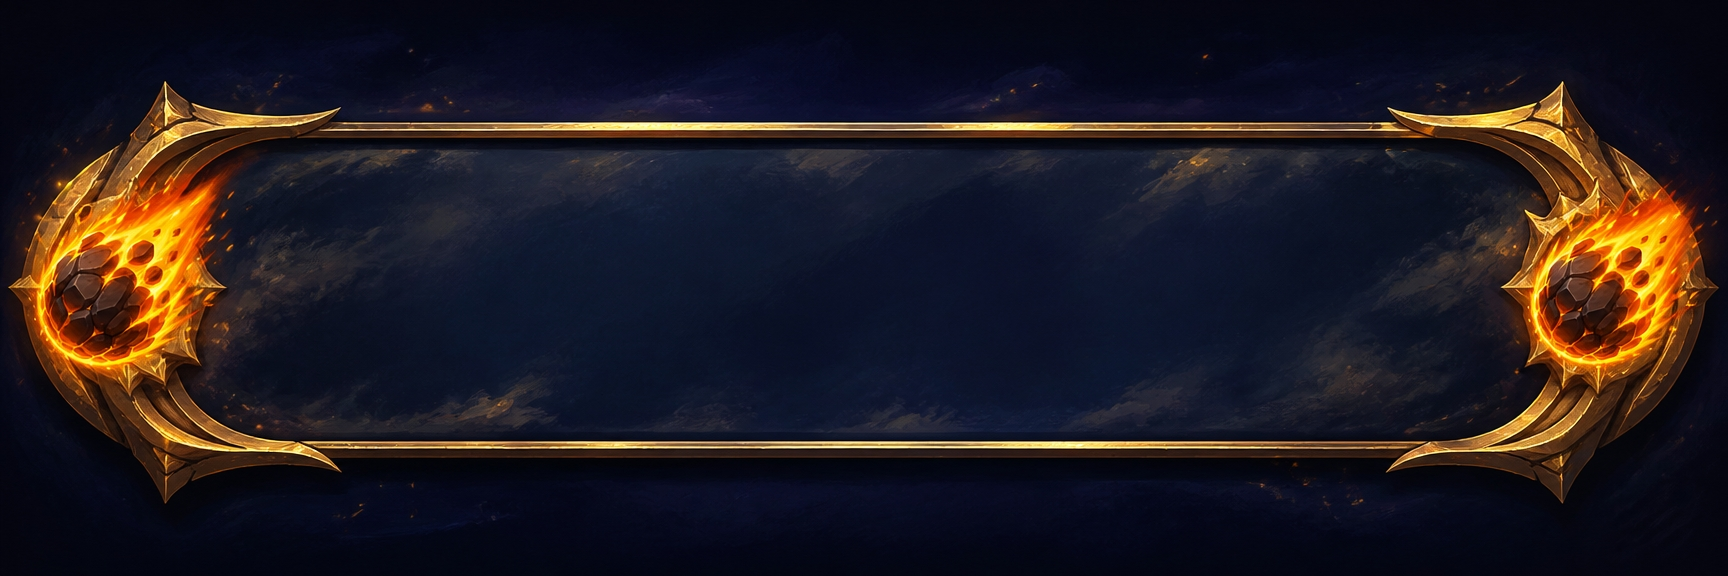
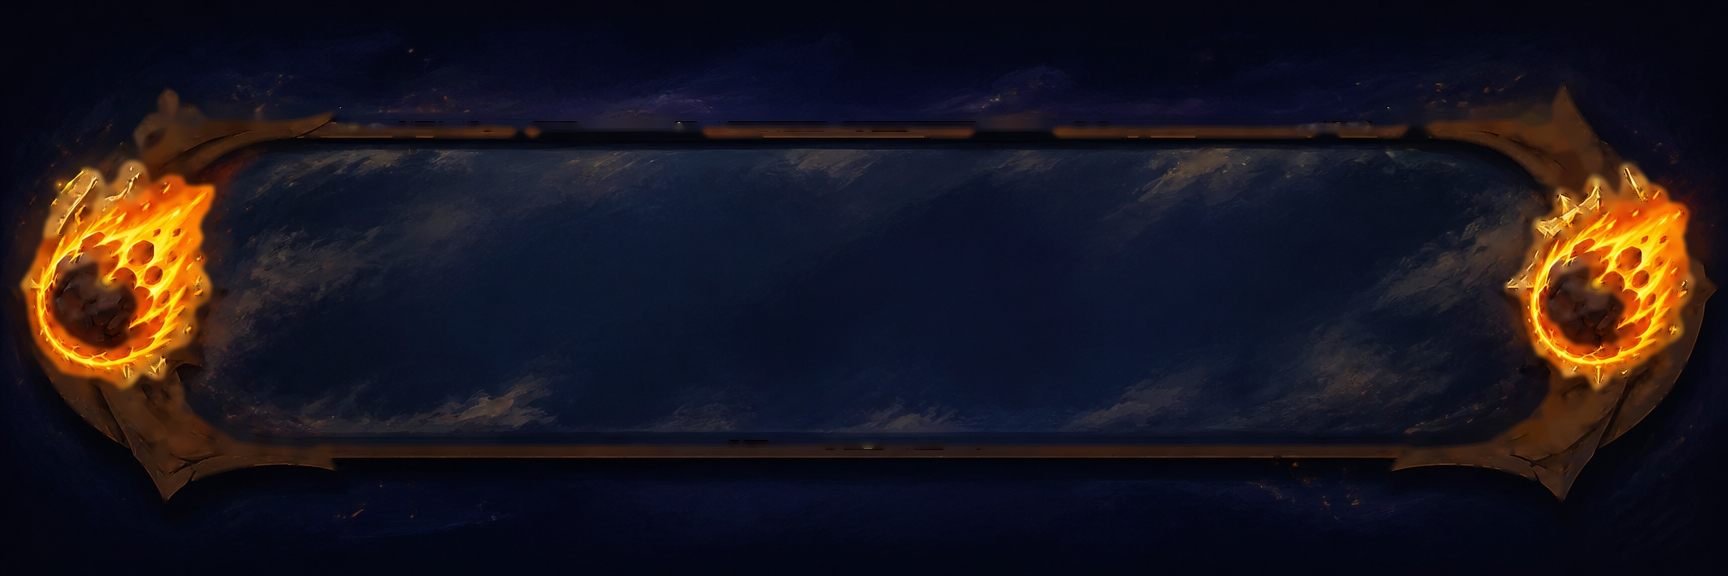
v370: 메뉴 버튼 텍스처 유성우·불티 파티클 제거(cv2 정밀 인페인트, 프레임 보호영역 변경 0px 실측)+전 버튼 hover/pressed 전환효과 표준(ui-v370), 칩·sw v370

Changed region(s): [[0.0, 0.1562, 1.0, 0.8438]]

diff --git a/royal-arena/index.html b/royal-arena/index.html
@@ -1152,7 +1152,7 @@ html body .theme-row .t-btn{height:34px !important;font-size:11px !important;lin
 html body .t-links button, html body #btn-deck-random, html body #btn-deck-edit{background:linear-gradient(180deg,rgba(14,34,61,.95),rgba(10,22,40,.95)) !important;border:1px solid #c89b3c !important;border-radius:14px !important;color:#f2f6ff !important;font-weight:700 !important;line-height:1.2 !important;text-shadow:none !important;min-height:34px !important;display:flex !important;align-items:center !important;justify-content:center !important;overflow:hidden !important;text-overflow:ellipsis !important;white-space:nowrap !important;padding:4px 8px !important}
 html body #deck-edit{padding-bottom:150px !important}
 </style>
-<div id="verchip" style="position:fixed;left:6px;bottom:2px;z-index:99990;background:rgba(0,0,0,.55);color:#ffd75e;font:700 10px monospace;padding:2px 6px;opacity:.62;border-radius:8px;pointer-events:none">v369</div><div id="app">
+<div id="verchip" style="position:fixed;left:6px;bottom:2px;z-index:99990;background:rgba(0,0,0,.55);color:#ffd75e;font:700 10px monospace;padding:2px 6px;opacity:.62;border-radius:8px;pointer-events:none">v370</div><div id="app">
 
   <!-- ===== 타이틀 ===== -->
   <section id="screen-title">
@@ -1491,6 +1491,13 @@ b.style.setProperty('background','linear-gradient(180deg,rgba(10,16,34,.18),rgba
 b.style.setProperty('background-size','auto,100% 100%','important');});
 }catch(e){}},1500);
 </script>
+<style id="ui-v370">/* v370(개정): 전 버튼 전환효과 표준 — ID 우위 경로(v366 (2,1,3) 대비 (3,4,3))로 확정, 팝업 오염 없는 상태 규칙 */
+html body #app #screen-title button,html body #app #title-actions button,html body #app #screen-battle button,html body #app [id^="overlay-"] button,html body #app button{transition:transform 120ms ease,filter 120ms ease,box-shadow 120ms ease,border-color 120ms ease !important}
+html body #app #screen-title button:not(#btn-start):not(.sel):not(:disabled):not(:active):hover,html body #app #title-actions button:not(.sel):not(:disabled):not(:active):hover,html body #app [id^="overlay-"] button:not(:disabled):not(:active):hover,html body #app button:not(#btn-start):not(.sel):not(:disabled):not(:active):hover{filter:brightness(1.10) !important}
+html body #app #screen-title button:not(.sel):not(:disabled):active,html body #app #title-actions button:not(.sel):not(:disabled):active,html body #app [id^="overlay-"] button:not(:disabled):active,html body #app button:not(.sel):not(:disabled):active{transform:scale(.96) !important;filter:brightness(.88) !important}
+html body #app #screen-title button#btn-start:hover{filter:brightness(1.10) !important}
+html body #app #screen-title button#btn-start:active,html body #app button#btn-start.t-cta:active{transform:scale(.96) !important;filter:brightness(.88) !important}
+</style>
 <script src="js/g1-art-assets.js"></script>
 
 

diff --git a/royal-arena/sw.js b/royal-arena/sw.js
@@ -1,4 +1,4 @@
-const CACHE = 'royal-arena-v369';
+const CACHE = 'royal-arena-v370';
 const CORE = ['./', 'index.html', 'manifest.json', 'icon-192.png', 'icon-512.png', 'maskable-512.png', 'js/g1-art-assets.js', 'js/g2-sprite-assets.js', 'js/g3-frame-assets.js', 'js/g4-ux-data.js', 'js/g5-core.js', 'js/g6-battle.js', 'js/g7-ui-systems.js', 'js/g8-boot.js', 'qa-driver.js', ];
 self.addEventListener('install', e => {
   e.waitUntil(caches.open(CACHE).then(c => c.addAll(CORE)).then(() => self.skipWaiting()));

diff --git a/royal-arena/royal-arena-changelog.md b/royal-arena/royal-arena-changelog.md
@@ -1,3 +1,4 @@
+## v370 — 메뉴 버튼 텍스처 유성우·불티 파티클 제거: ra_btn_card.png cv2 정밀 인페인트 2패스(밝은따뜻 성분 중 얇은/소형 성분 제거+프레임 구조 보호 — 보호영역 변경 0px 실측, 화염 꼬리·산발 불티 소거, 프레임 보존+장식 구체 화염까지 제거(금빛 링 보호 마스크로 금속 무결 0px 실측))+전 버튼 전환효과 표준(ui-v370: hover 밝기 1.10 / pressed scale .96+밝기 .88 / transition transform·filter·box-shadow 120ms, 인라인 간섭 없는 filter·transform 경로라 CSS만으로 확정). 컴파일 게이트 COMPILE:OK·BALANCE:OK(outliers=0)·audit AUDIT:OK(스크립트 case 문 손상 복원: *.js 예산 게이트 재가동 — 스테일 80KB 기준으로는 상용 청크 8종 전부 OVER였던 사건 보고). 상태 캡처(로컬 서빙 — 푸시 인증 미해결로 배포 전 로컬 검증) — 칩·sw v370.
 ## v349 — 감사 확장으로 발견된 잔여 클리핑 4건 수복: 포디엄 점수 9,999,999 초과(폰트 19→15px+anywhere)·ra-inote 압착 폭(block 전환+height auto)·t-note 세로 클립(overflow/height 해제). 로컬·라이브 감사 0건 확인. 칩·sw v349.
 ## v359 — 전 화면 기본 표준(무스크롤·골드 테두리·배치): 사용자 지시("스킬을 다른 화면에도 적용+버튼테두리·배치 전면수정+기본스킬 등록") — ①#app 전 버튼 테두리 골드(#c89b3c) 통일, 비활성 버튼도 흐린 금테(rgba(200,155,60,.6))+가독 글자색(#dcc99a) — 기기 판독의 저대비 회색 비활성 버튼 해소 ②프로필 슬롯 등 직계 자식 전폭 중앙 정렬(max-width 해제·margin auto)+카드 하단 여백 16px ③무스크롤·절단·버튼 감사 게이트 전 화면 유지. 3뷰포트 전 화면 감사 0건 후 배포. 칩·sw v359.
 ## v358 — 프로필 절단·테두리 소실 수복(등록 프롬프트 1차 실행): ①노란 통계 박스 하단 절단 — v353의 자식별 내부 스크롤(각 자식 flex:1·overflow-y:auto)이 통계 박스를 압착 → 자식 압착 해제(flex:0 0 auto·overflow visible)+카드 단일 스크롤 폴백(overflow-y auto·max-height 100svh-24)으로 전환, 통계 행 line-height·간격 압축 ②문양 버튼 골드 테두리 소실 — v353이 border #8a5d13(어두운 갈색) 강제가 원인 → 테두리 골드(#c89b3c)+외곽 금빛 발광으로 수복(나무 문양+금테 조합 유지). 등록 프롬프트의 테두리 소실·텍스트 절단·스크롤 게이트 전수 실측 후 배포. 칩·sw v358.
